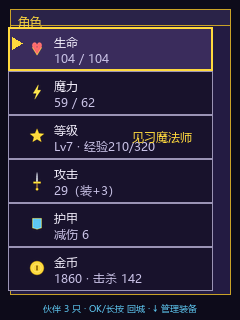
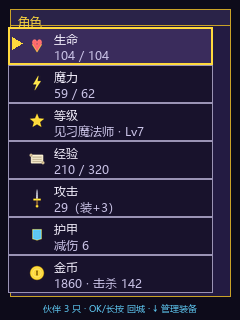
fix(mage): 状态页 7 行重排消除职级压字 + 对比图去遮挡重设计
固件（对齐 HTML 原版 SCENES.STATUS 设计）：
- 职级不再塞等级行右列——原版设计里职级是独立信息行（RANKS·Lv 金色一行）；
  塞右列导致长 sub「Lv7 · 经验210/320」与「见习魔法师」互相压字
- 等级行 sub 改为「见习魔法师 · Lv7」（原版同款），rgt 清空
- 经验独立成第 7 行（sp_icon_scroll，210 / 320）
- 状态页不再画 hero 立绘：立绘占 88px 顶部后 7 行两行块放不下（pitch 29 < 33），
  去掉后 y0=27、7 行 pitch=38 动态铺满；立绘在图鉴详情页保留

预览图重设计（回应用户「有遮挡，不显示，给我好好设计」）：
- 总览图改 3x2 场景 + 每格下方 30px 独立说明条（修复前红/修复后绿徽章），
  标注文字绝不压场景；顶部独立标题条
- 场景内删除一切标注（旧虚线框/说明文字），场景 = 固件真实输出
- before 角色页补画 hero 立绘（_k 透明底版，与固件烘焙同源）忠实复现旧 bug；
  修复立绘被 draw_frame 盖掉的 paste 顺序
- load_monster 优先读 sp_*_k.png（抠底版）

Changed region(s): [[0.0292, 0.0938, 0.9625, 0.9375]]

diff --git a/tools/preview_mage_fixes.py b/tools/preview_mage_fixes.py
@@ -207,11 +207,14 @@ def draw_battle_menu(d, im, label):
 
 
 def load_monster(type_key, th=40, max_w=44):
-    """读取源怪物 PNG（mage-game/assets/sp_<type>.png）并按烘焙期 make_thumb 同口径缩放。
+    """读取源怪物 PNG（mage-game/assets/sp_<type>.png，优先抠好透明底的 _k 版）
+    并按烘焙期 make_thumb 同口径缩放。
 
     与固件 assets/mage_sprites.c 烘焙同源：scale=min(th/h, max_w/w) 限宽 44、高 40。
     """
-    p = os.path.join(ICON_DIR, "sp_%s.png" % type_key)
+    p = os.path.join(ICON_DIR, "sp_%s_k.png" % type_key)
+    if not os.path.exists(p):
+        p = os.path.join(ICON_DIR, "sp_%s.png" % type_key)
     im = Image.open(p).convert("RGBA")
     w, h = im.size
     scale = min(th / h, max_w / w)
@@ -226,14 +229,24 @@ ACADEMY_ROWS = [
     ("sp_icon_book",  "学属性魔法",   "已学 12/135 种魔法",      "45金"),
     ("sp_icon_crown", "职业晋升考核", "需击杀/委托达标",         ""),
 ]
-# 角色页：6 行属性（g_menu.n=6），旧右列 56px 裁「见习魔法师」。
-STATUS_ROWS = [
+# 角色页【旧版】6 行（板上现状）：职级塞等级行右列，与长 sub 互相压字 + 顶部立绘占 88px
+STATUS_ROWS_OLD = [
     ("sp_icon_heart", "生命", "104 / 104", ""),
     ("sp_icon_bolt",  "魔力", "59 / 62",   ""),
     ("sp_icon_star",  "等级", "Lv7 · 经验210/320", "见习魔法师"),
     ("sp_icon_sword", "攻击", "29（装+3）", ""),
     ("sp_icon_shield","护甲", "减伤 6",   ""),
     ("sp_icon_coin",  "金币", "1860 · 击杀 142", ""),
+]
+# 角色页【新版】7 行（对齐 HTML 原版：职级·Lv 独立信息、经验独立成行、无右列冲突）
+STATUS_ROWS_NEW = [
+    ("sp_icon_heart",  "生命", "104 / 104",          ""),
+    ("sp_icon_bolt",   "魔力", "59 / 62",            ""),
+    ("sp_icon_star",   "等级", "见习魔法师 · Lv7",   ""),
+    ("sp_icon_scroll", "经验", "210 / 320",          ""),
+    ("sp_icon_sword",  "攻击", "29（装+3）",         ""),
+    ("sp_icon_shield", "护甲", "减伤 6",             ""),
+    ("sp_icon_coin",   "金币", "1860 · 击杀 142",    ""),
 ]
 # 伙伴网格：8 个真实物种（cat/fox/frog/deer/bat/boar/goblin/treant 均有源 PNG）。
 PARTNERS = [
@@ -281,6 +294,7 @@ def draw_list_row(d, im, x, y, w, h, icon, name, sub, rgt,
 
 
 # ---------------- 列表铺满（问题⑤：学院 3 行） ----------------
+# 场景内不放任何标注文字（诚实渲染固件输出），说明放总览图的独立说明条。
 def draw_academy(d, im, before):
     d.rectangle([0, 0, W, H], fill=C_BG)
     if before:
@@ -289,9 +303,6 @@ def draw_academy(d, im, before):
         y0, pitch, row_h = 27, 34, 33
         for i, (ic, nm, sub, rgt) in enumerate(ACADEMY_ROWS):
             draw_list_row(d, im, ROW_X, y0 + i * pitch, ROW_W, row_h, ic, nm, sub, rgt, sel=(i == 0))
-        # 标注空白区
-        d.rectangle([ROW_X, 140, ROW_X + ROW_W, 280], outline=(90, 80, 130), width=1)
-        d.text((W // 2, 200), "旧：下方大片空白（170px 空）", font=F9, fill=(150, 140, 180), anchor="mm")
     else:
         # 新：pitch=(294-27)/3≈89→cap88，rowH=87，框高随内容自适应到 284
         pitch = (294 - 27) // len(ACADEMY_ROWS)
@@ -308,27 +319,45 @@ def draw_academy(d, im, before):
     d.text((W // 2, H - 12), "OK 确定 · ↓ 切换 · 长按 返回", font=F9, fill=C_CYAN, anchor="mm")
 
 
-# ---------------- 角色页右列裁切（问题⑥：见习魔法师被裁） ----------------
+# ---------------- 角色页（问题⑥：职级压字 + 显示不全） ----------------
 def draw_status(d, im, before):
     d.rectangle([0, 0, W, H], fill=C_BG)
-    # 新几何：pitch=(294-27)/6≈44，rowH=43，框高自适应；右列 76px @ ROW_W-80
-    pitch = (294 - 27) // len(STATUS_ROWS)
-    if pitch > 88:
-        pitch = 88
-    row_h = pitch - 1
-    fb = 27 + len(STATUS_ROWS) * pitch + 3
-    if fb > 298:
-        fb = 298
-    frame_h = fb - 10
-    draw_frame(d, frame_h, "角色")
-    for i, (ic, nm, sub, rgt) in enumerate(STATUS_ROWS):
-        if before and rgt:
-            # 旧：右列 56px @ ROW_W-60 → 「见习魔法师」(60px) 被裁
-            draw_list_row(d, im, ROW_X, 27 + i * pitch, ROW_W, row_h, ic, nm, sub, rgt,
-                          rgt_w=56, rgt_xoff=60, sel=(i == 0), clip_rgt=True)
-        else:
-            draw_list_row(d, im, ROW_X, 27 + i * pitch, ROW_W, row_h, ic, nm, sub, rgt,
-                          rgt_w=76, rgt_xoff=80, sel=(i == 0))
+    if before:
+        # 旧：立绘占顶部 88px（列表 y0=88）+ 6 行 + 职级塞右列与长 sub 压字
+        rows = STATUS_ROWS_OLD
+        y0 = 88
+        pitch = (294 - y0) // len(rows)
+        if pitch < ROW_H:
+            pitch = ROW_H
+        row_h = pitch - 1
+        fb = y0 + len(rows) * pitch + 3
+        if fb > 298:
+            fb = 298
+        draw_frame(d, fb - 10, "角色")
+        # 立绘 = foreground 对象（在框体之上），必须在 draw_frame 之后粘贴
+        try:
+            hero = load_monster("hero", th=58, max_w=54)
+            im.paste(hero, (W // 2 - hero.size[0] // 2, 88 - hero.size[1]), hero)
+        except Exception:
+            pass
+        for i, (ic, nm, sub, rgt) in enumerate(rows):
+            draw_list_row(d, im, ROW_X, y0 + i * pitch, ROW_W, row_h, ic, nm, sub, rgt, sel=(i == 0))
+    else:
+        # 新：去立绘、y0=27、7 行动态铺满，职级·Lv 并入等级行 sub，经验独立成行
+        rows = STATUS_ROWS_NEW
+        y0 = 27
+        pitch = (294 - y0) // len(rows)
+        if pitch > 88:
+            pitch = 88
+        if pitch < ROW_H:
+            pitch = ROW_H
+        row_h = pitch - 1
+        fb = y0 + len(rows) * pitch + 3
+        if fb > 298:
+            fb = 298
+        draw_frame(d, fb - 10, "角色")
+        for i, (ic, nm, sub, rgt) in enumerate(rows):
+            draw_list_row(d, im, ROW_X, y0 + i * pitch, ROW_W, row_h, ic, nm, sub, rgt, sel=(i == 0))
     d.text((W // 2, H - 12), "伙伴 3 只 · OK/长按 回城 · ↓ 管理装备", font=F9, fill=C_CYAN, anchor="mm")
 
 
@@ -360,10 +389,6 @@ def draw_partners(d, im, before):
         d.text((cx + cell_inner_w // 2, cy + 66), nm, font=F9, fill=C_WHITE, anchor="mm")
         d.text((cx + cell_inner_w // 2, cy + 82), tag, font=F9, fill=C_GOLD, anchor="mm")
     d.text((W // 2, 280), "OK 出战 · ↓ 切换 · 长按 菜单", font=F9, fill=C_CYAN, anchor="mm")
-    if before:
-        d.text((W // 2, 296), "修复前：烘焙只 8 个 thumb，多数 NULL 空白格", font=F9, fill=(255, 120, 120), anchor="mm")
-    else:
-        d.text((W // 2, 296), "修复后：遍历全部魔物烘 84 个 thumb，8 格全有立绘", font=F9, fill=(127, 220, 138), anchor="mm")
 
 
 def make_cell(fn, *a):
@@ -427,26 +452,41 @@ def main():
         im.save(os.path.join(OUT, "mage_sixth_%s_240x320.png" % k))
         up2x(im).save(os.path.join(OUT, "mage_sixth_%s_2x.png" % k))
 
-    # 3×2 总览（720×640）
-    ov6 = Image.new("RGB", (W * 3, H * 2), C_BG)
+    # 3×2 总览：每格 = 240x320 场景 + 下方 30px 独立说明条（不压场景）
+    CAP_H = 30
+    labels6 = {
+        "academy_before":  ("修复前", "3 行挤在顶部，下方大片空白"),
+        "academy_after":   ("修复后", "行距动态铺满整框，无空白"),
+        "status_before":   ("修复前", "职级塞右列，与经验数字压字"),
+        "status_after":    ("修复后", "职级并入等级行，经验独立行"),
+        "partners_before": ("修复前", "只烘 8 个缩略图，多数空白格"),
+        "partners_after":  ("修复后", "全部 84 只魔物都有缩略图"),
+    }
+    cap_color = {"修复前": (255, 120, 120), "修复后": (127, 220, 138)}
+    OW, OH = W * 3, (H + CAP_H) * 2
+    ov6 = Image.new("RGB", (OW, OH), (16, 12, 32))
+    dd = ImageDraw.Draw(ov6)
+    dd.rectangle([0, 0, OW, 22], fill=(42, 35, 72))
+    dd.text((OW // 2, 11), "魔法帝之路 · 第六批界面修复对比（240x320 与固件同坐标）",
+            font=F12, fill=C_GOLD, anchor="mm")
     order6 = ["academy_before", "academy_after",
               "status_before", "status_after",
               "partners_before", "partners_after"]
     for idx, k in enumerate(order6):
-        cell = sixth[k].resize((W, H))
-        x = (idx % 3) * W
-        y = (idx // 3) * H
-        ov6.paste(cell, (x, y))
-        dd = ImageDraw.Draw(ov6)
-        dd.rectangle([x, y, x + W - 1, y + H - 1], outline=C_GOLD, width=2)
-        labels6 = {
-            "academy_before": "⑤列表不铺满·旧", "academy_after": "⑤列表铺满·新",
-            "status_before": "⑥右列裁切·旧", "status_after": "⑥右列完整·新",
-            "partners_before": "⑦伙伴无图·旧", "partners_after": "⑦伙伴有图·新",
-        }
-        dd.text((x + 4, y + 4), labels6[k], font=F9, fill=C_WHITE)
-    ov6.save(os.path.join(OUT, "mage_sixth_overview_720x640.png"))
-    print("written:", os.path.join(OUT, "mage_sixth_overview_720x640.png"))
+        col, row = idx % 3, idx // 3
+        x, y = col * W, 24 + row * (H + CAP_H)
+        ov6.paste(sixth[k], (x, y))
+        dd.rectangle([x, y, x + W - 1, y + H - 1], outline=C_GOLD, width=1)
+        # 说明条：深底 + 金顶线 + 徽章色前缀
+        cy = y + H
+        dd.rectangle([x, cy, x + W - 1, cy + CAP_H - 1], fill=(24, 18, 44))
+        dd.line([x, cy, x + W - 1, cy], fill=C_GOLD, width=1)
+        tag, desc = labels6[k]
+        dd.text((x + 6, cy + 8), tag, font=F9, fill=cap_color[tag])
+        tw = dd.textlength(tag, font=F9)
+        dd.text((x + 12 + tw, cy + 8), desc, font=F9, fill=C_WHITE)
+    ov6.save(os.path.join(OUT, "mage_sixth_overview_720x704.png"))
+    print("written:", os.path.join(OUT, "mage_sixth_overview_720x704.png"))
 
 
 if __name__ == "__main__":

diff --git a/main/mage.c b/main/mage.c
@@ -992,15 +992,19 @@ static void refresh_ui(void) {
         g_menu.rows[0] = (MenuRow){"sp_icon_heart", "生命", g_menu_sub[0], ""};
         snprintf(g_menu_sub[1], sizeof(g_menu_sub[1]), "%d / %d", g.mp, g.maxMp);
         g_menu.rows[1] = (MenuRow){"sp_icon_bolt", "魔力", g_menu_sub[1], ""};
-        snprintf(g_menu_sub[2], sizeof(g_menu_sub[2]), "Lv%d · 经验%d/%d", g.level, g.exp, expNeed());
-        g_menu.rows[2] = (MenuRow){"sp_icon_star", "等级", g_menu_sub[2], RANKS[g.rank]};
-        snprintf(g_menu_sub[3], sizeof(g_menu_sub[3]), "%d（装+%d）", atk, eqAtk());
-        g_menu.rows[3] = (MenuRow){"sp_icon_sword", "攻击", g_menu_sub[3], ""};
-        snprintf(g_menu_sub[4], sizeof(g_menu_sub[4]), "减伤 %d", eqDef());
-        g_menu.rows[4] = (MenuRow){"sp_icon_shield", "护甲", g_menu_sub[4], ""};
-        snprintf(g_menu_sub[5], sizeof(g_menu_sub[5]), "%d · 击杀%d", g.gold, g.kills);
-        g_menu.rows[5] = (MenuRow){"sp_icon_coin", "金币", g_menu_sub[5], ""};
-        g_menu.n = 6; g_menu.sel = 0;
+        /* 职级·Lv 合并进等级行 sub（HTML 原版同款：职级是独立信息行，不占右列，
+         * 否则长 sub「Lv7 · 经验210/320」会和右列「见习魔法师」互相压字） */
+        snprintf(g_menu_sub[2], sizeof(g_menu_sub[2]), "%s · Lv%d", RANKS[g.rank], g.level);
+        g_menu.rows[2] = (MenuRow){"sp_icon_star", "等级", g_menu_sub[2], ""};
+        snprintf(g_menu_sub[3], sizeof(g_menu_sub[3]), "%d / %d", g.exp, expNeed());
+        g_menu.rows[3] = (MenuRow){"sp_icon_scroll", "经验", g_menu_sub[3], ""};
+        snprintf(g_menu_sub[4], sizeof(g_menu_sub[4]), "%d（装+%d）", atk, eqAtk());
+        g_menu.rows[4] = (MenuRow){"sp_icon_sword", "攻击", g_menu_sub[4], ""};
+        snprintf(g_menu_sub[5], sizeof(g_menu_sub[5]), "减伤 %d", eqDef());
+        g_menu.rows[5] = (MenuRow){"sp_icon_shield", "护甲", g_menu_sub[5], ""};
+        snprintf(g_menu_sub[6], sizeof(g_menu_sub[6]), "%d · 击杀%d", g.gold, g.kills);
+        g_menu.rows[6] = (MenuRow){"sp_icon_coin", "金币", g_menu_sub[6], ""};
+        g_menu.n = 7; g_menu.sel = 0;
         lv_label_set_text_fmt(g_scene_hint, "伙伴 %d 只 · OK/长按 回城 · ↓ 管理装备", g.cats);
         menu_list_dirty = 1;
         break;
@@ -1437,13 +1441,11 @@ static void refresh_ui(void) {
              * 彻底根治「文字/卡片压住立绘」的遮挡问题（用户问题④）。 */
             if (g_scene == SC_DEX)            g_list_y0 = 96;
             else if (g_scene == SC_PARTNERS)  g_list_y0 = ROW_Y0;
-            else if (g_scene == SC_STATUS)    g_list_y0 = 88;
-            else                              g_list_y0 = ROW_Y0;
+            else                              g_list_y0 = ROW_Y0;   /* 状态页 7 行铺满：与普通列表同 y0 */
             if (fon) {
                 lv_label_set_text(g_frame_title, s_ttl[0] ? s_ttl : SCENE_NAME[g_scene]);
                 if (g_scene == SC_DEX)           { lv_obj_move_foreground(g_dex_box);   lv_obj_move_foreground(g_scene_img); }
                 else if (g_scene == SC_PARTNERS) { lv_obj_move_foreground(g_part_root); }
-                else if (g_scene == SC_STATUS)    { lv_obj_move_foreground(g_scene_img); }
             } else {
                 lv_obj_set_pos(g_scene_body, 10, 38);
                 lv_obj_set_width(g_scene_body, SCR_W - 16);
@@ -1476,9 +1478,9 @@ static void refresh_ui(void) {
                 int t = enemyIndex(DEXORDER[di]);
                 if (t >= 0) { typeName = ENEMY[t].type; footY = 90; }
             }
-        } else if (g_scene == SC_STATUS) {
-            typeName = "hero"; footY = 88;       /* HTML portrait('hero',...) */
         }
+        /* 状态页改为 7 行属性列表（职级·Lv/经验各占一行），不再画立绘：
+         * 立绘会占掉 88px 顶部空间，7 行两行块放不下且行距过挤。 */
         if (typeName && typeName[0]) {
             snprintf(key, sizeof(key), "%d:%s", (int)g_scene, typeName);
             if (strcmp(lastKey, key) != 0) {
